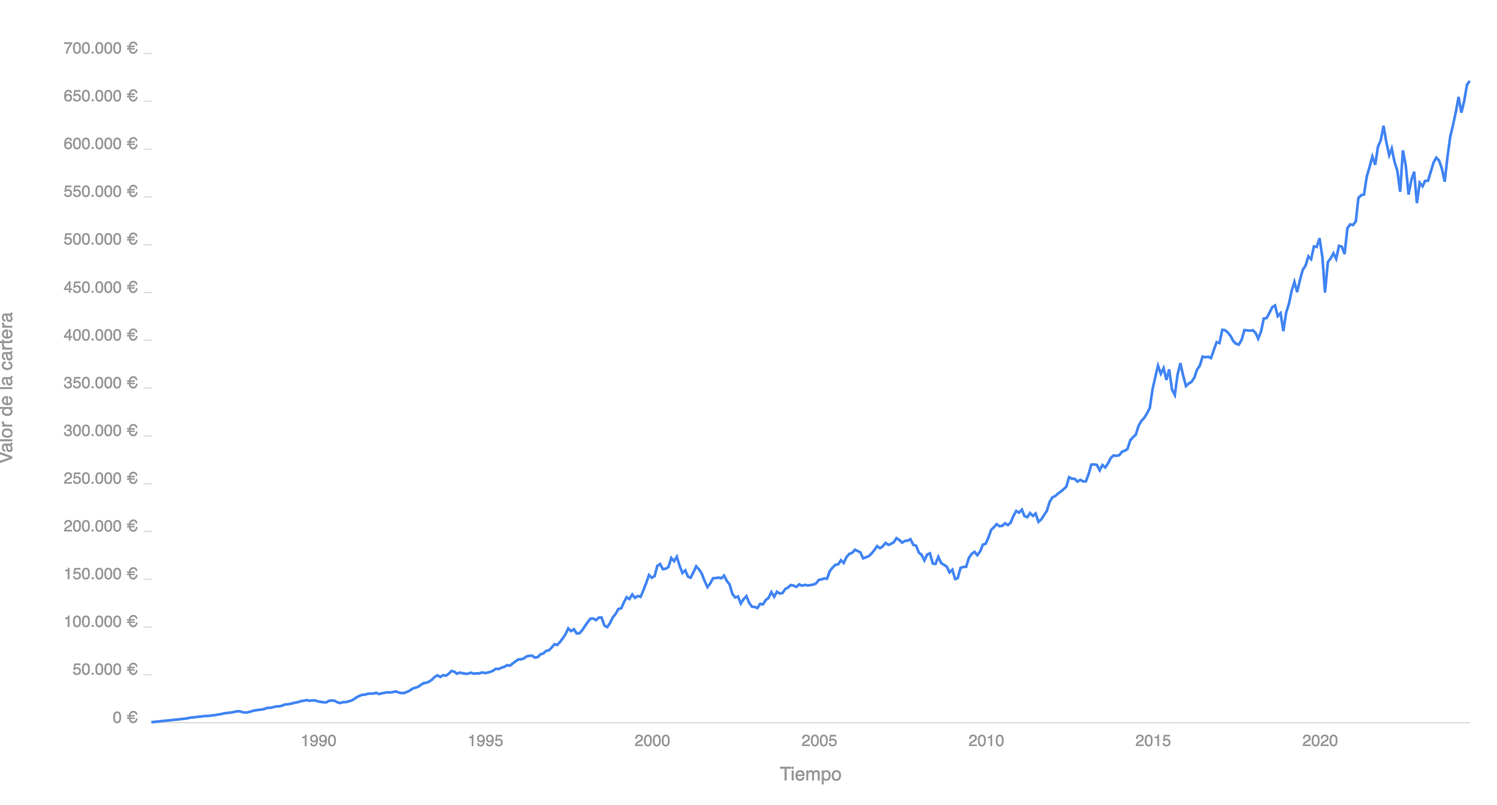
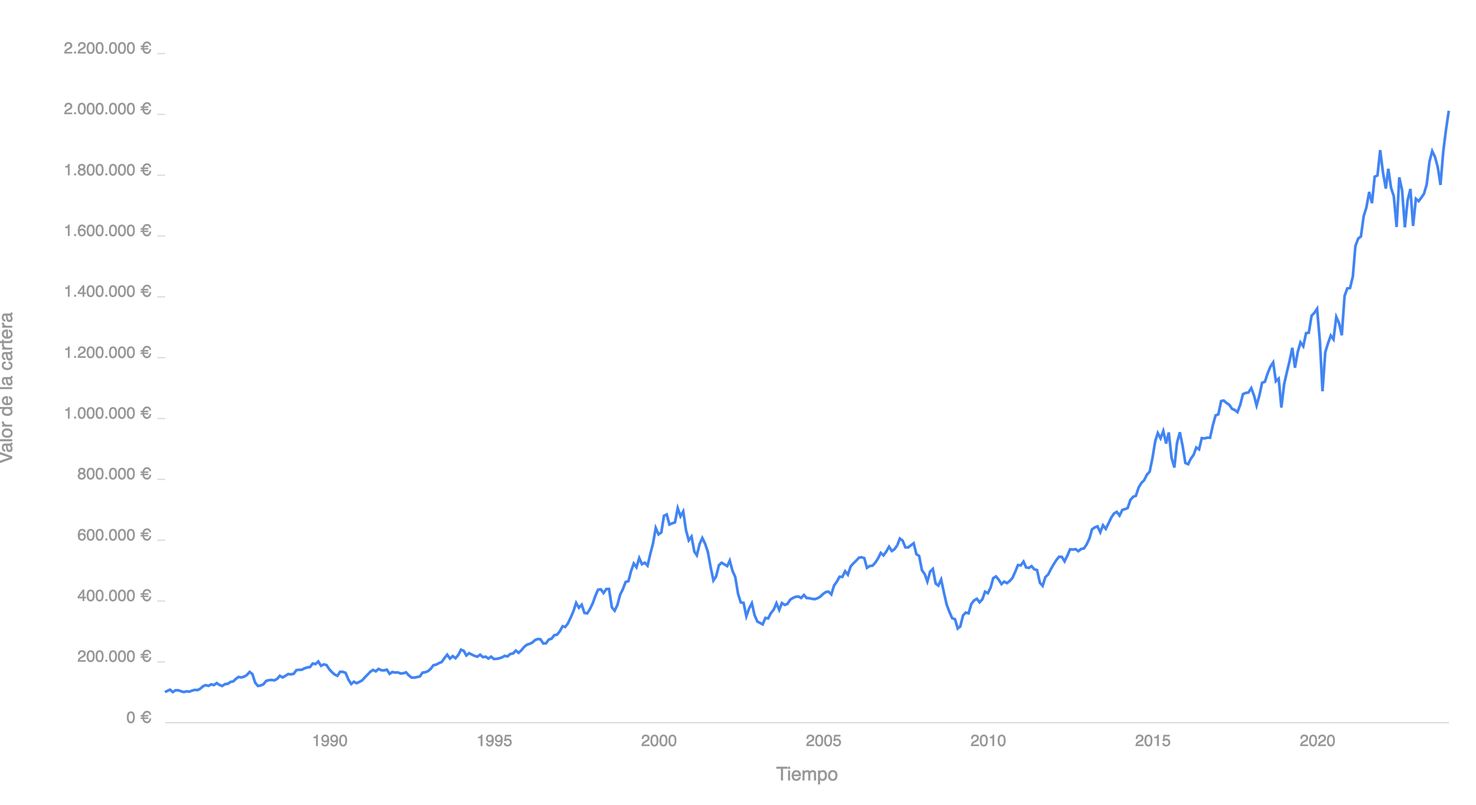
Update blog post

diff --git a/public/pensiones-inversion-espana/index.html b/public/pensiones-inversion-espana/index.html
@@ -284,37 +284,29 @@ Las pensiones y la inversión en España | Víctor Marino
           
           <article class="page-content  p-2">
           <p>Quería estrenar el blog con un tema que, a pesar de tener un impacto enorme sobre la vida de todos nosotros, sigue teniendo un protagonismo relativamente menor, tanto en los medios de comunicación como en el debate público. Sí, de vez en cuando se habla de las pensiones, pero normalmente la conversación es muy superficial y con argumentos muy simples, quedando a menudo simplificado a un enfrentamiento entre ideologías y sin hacer un análisis detallado que ayude a entender los problemas y las posibles soluciones. Con este post voy a tratar de resumir algunos de estos puntos de forma sencilla para facilitar dicho debate.</p>
-<h3 id="origen">Origen</h3>
-<h4 id="retiro-obrero">Retiro Obrero</h4>
+<h2 id="origen">Origen</h2>
+<h3 id="retiro-obrero">Retiro Obrero</h3>
 <p>Curiosamente, el sistema actual de reparto tuvo un predecesor que podríamos llamar de capitalización. Fue el llamado <strong>Retiro Obrero</strong><sup id="fnref:1"><a href="#fn:1" class="footnote-ref" role="doc-noteref">1</a></sup>, aprobado en 1919, por el cual el Estado aportaba una peseta al mes por cada trabajador en activo, mientras que los patronos aportaban tres pesetas al mes. Este dinero era gestionado por los bancos y cajas de ahorro, y daba derecho a los trabajadores con pocos ingresos a una pensión de una peseta al día (365 al año) a partir de los 65 años. Este importe suponía tan solo entre el 10% y el 20% del salario medio de un obrero, y estaba por tanto concebido como una ayuda contra la pobreza, no como nuestras actuales pensiones de jubilación.</p>
 <p>Sin embargo, la llegada de la guerra imposibilitó que los primeros partícipes de este sistema pudieran llegar a beneficiarse de él. Estos ahorros se habían acumulado en forma de <strong>pesetas republicanas</strong>, una moneda que sufrió una enorme devaluación durante la guerra civil<sup id="fnref:2"><a href="#fn:2" class="footnote-ref" role="doc-noteref">2</a></sup> (frente a la estabilidad de la peseta nacional), y que finalmente terminaría desapareciendo. Por tanto, al terminar la guerra, esas pensiones ahorradas en pesetas republicanas no valían nada, y Franco tuvo que buscar una solución para sustentar a esos trabajadores de bajos ingresos que estaban a punto de jubilarse, pero que habían perdido la pensión que habían acumulado. Fueron estos problemas los que motivaron la migración a un sistema de reparto: el <strong>Subsidio de Vejez</strong>.</p>
-<h4 id="subsidio-de-vejez">Subsidio de Vejez</h4>
+<h3 id="subsidio-de-vejez">Subsidio de Vejez</h3>
 <p>Con este sistema, que al igual que su predecesor sólo cubría a los jubilados con bajos ingresos, los trabajadores en activo empezaban a pagar de inmediato las pensiones de los jubilados, que recibían una pensión vitalicia fija y garantizada. Se eliminaba por tanto el componente de ahorro del sistema, sorteando así el principal problema en aquel momento: la <strong>falta de tiempo</strong> para que los trabajadores más mayores volviesen a acumular suficientes ahorros antes de jubilarse. A cambio, los jubilados pasaban a ser completamente dependientes de los trabajadores en activo de ese momento. Era, en esencia, una transferencia de riqueza de los trabajadores a los jubilados.</p>
 <p>Más tarde, este sistema se expandiría para cubrir a todos los jubilados, solidificando aún más esa dependencia intergeneracional de cara al futuro.</p>
-<h3 id="limitaciones-de-los-sistemas-de-reparto">Limitaciones de los sistemas de reparto</h3>
-<h4 id="ausencia-de-rentabilidad">Ausencia de rentabilidad</h4>
+<h2 id="limitaciones-de-los-sistemas-de-reparto">Limitaciones de los sistemas de reparto</h2>
+<h3 id="ausencia-de-rentabilidad">Ausencia de rentabilidad</h3>
 <p>Uno de los principales problemas de las pensiones basadas en el reparto es que se renuncia por completo a la revalorización del capital a lo largo del tiempo. Cada euro aportado por un trabajador en activo se gasta al mes siguiente en pagarle un euro a un pensionista, y por tanto no tiene tiempo de producir rentabilidad alguna en los mercados. Esto constituye un tremendo coste de oportunidad, puesto que el tiempo, recurso tan abundante para una persona que comienza a trabajar, es precisamente el <strong>factor más crítico</strong> para invertir con éxito.</p>
-<p>Por ejemplo, una inversión de 10.000€ realizada en enero de 1985 en un indexado al MSCI World (ignoremos para este ejercicio teórico la disponibilidad de vehículos indexados en aquella época) habría alcanzado en enero de 2024, 39 años después, un valor aproximado de 200.000€:
+<p>Por ejemplo, una inversión de 100.000€ realizada en enero de 1985 en un indexado al MSCI World (ignoremos para este ejercicio teórico la disponibilidad de vehículos indexados en aquella época) habría alcanzado en enero de 2024, 39 años después, un valor aproximado de 2.000.000€:
 <img src="../assets/MSCI_World_1985-2024.png">
-<em>Backtest de una inversión de 10.000€ en el ETF Amundi MSCI World V: 1985-2024 <sup id="fnref:3"><a href="#fn:3" class="footnote-ref" role="doc-noteref">3</a></sup></em></p>
-<p>Esto supone una revalorización de 20 veces el capital invertido, y una rentabilidad anualizada de un 8% aproximadamente. Incluso si tenemos en cuenta el efecto de la inflación en España a lo largo de esos 39 años, los 10.000€ invertidos en 1985 equivaldrían a unos 35.350€ de 2024<sup id="fnref:4"><a href="#fn:4" class="footnote-ref" role="doc-noteref">4</a></sup>, lo cual seguiría suponiendo una revalorización de más de 5 veces el capital invertido en términos reales, y una rentabilidad real anualizada del 4,5%.</p>
-<p>Vaya por delante que esto sólo es un ejercio teórico para ilustrar el coste de oportunidad de <em>no</em> invertir el capital no necesario durante tantos años. Para hacer una comparación más justa, habría que considerar algunas variables más:</p>
+<em>Backtest de una inversión de 100.000€ en el ETF Amundi MSCI World V: 1985-2024 <sup id="fnref:3"><a href="#fn:3" class="footnote-ref" role="doc-noteref">3</a></sup></em></p>
+<p>Esto supone una revalorización de 20 veces el capital invertido, y una rentabilidad anualizada de un 8% aproximadamente. Incluso si tenemos en cuenta el efecto de la inflación en España a lo largo de esos 39 años, esos 2.000.000€ equivaldrían a unos 570.000€ de 1985 <sup id="fnref:4"><a href="#fn:4" class="footnote-ref" role="doc-noteref">4</a></sup>, lo cual seguiría suponiendo una revalorización de más de 5 veces el capital invertido en términos reales, y una rentabilidad real anualizada del 4,5%.</p>
+<p>Hay que remarcar que esto sólo es un ejercio teórico para ilustrar el coste de oportunidad de <em>no</em> invertir a largo plazo. Para hacer una simulación más realista, habría que considerar algunas variables más:</p>
 <ul>
 <li>La inversión no se haría de golpe al inicio, sino poco a poco en aportaciones mensuales.</li>
 <li>Las aportaciones serían más pequeñas al principio y crecerían progresivamente, puesto que habitualmente el salario y la capacidad de ahorro del trabajador aumentan con el tiempo.</li>
-<li>Un inversor prudente no llevaría el 100% de su cartera invertido en renta variable durante toda su vida inversora, sino que iría introduciendo renta fija para protegerse de la volatilidad a medida que se acerca su jubilación.</li>
+<li>Un inversor prudente no llevaría el 100% de su cartera invertida en renta variable durante toda su vida, sino que iría introduciendo renta fija a medida que se acerca su jubilación para protegerse de la volatilidad de los mercados.</li>
 </ul>
-<p>Pero lo importante es entender que el poder de revalorización del capital a lo largo del tiempo es enorme si se invierte, y que eso sólo es posible cuando se tienen suficientes años por delante como para poder asumir el riesgo y la volatilidad que conlleva esa inversión.</p>
-<p>Alguien que ahorra para comprarse un piso dentro de 5 años no puede contar con que los mercados le ayuden demasiado, ya que:</p>
-<ol>
-<li>Con un horizonte temporal tan corto, no podrá asumir mucho riesgo, ya que de lo contrario podría verse obligado a retirar su capital en pérdidas. Tendrá que conformarse con invertir principalmente en productos de renta fija (bonos), que serán mucho menos rentables que la renta variable (acciones).</li>
-<li>Esa inversión sólo va a trabajar para él durante 5 años, por lo que la revalorización del capital será muy limitada.</li>
-</ol>
-<p>Por contra, alguien que tiene varias décadas por delante para</p>
-<ol>
-<li>Podrá asumir mucho más riesgo, ya que permanecerá invertido durante</li>
-</ol>
-<p>Esto último exacerbó aún más la dependencia de los trabajadores en activo por parte de los pensionistas, especialmente cuando el sistema se expandió en los años 60 para cubrir a toda la población. Ante las crecientes demandas del sistema y en ausencia de ninguna rentabilidad, resultaba imprescindible mantener un alto ratio de trabajadores por pensionista para que la cuantía de la prestación fuese lo bastante alta.</p>
+<p>Pero lo importante es entender que, cuando se tienen décadas por delante, el poder de revalorización del capital invertido es enorme. Quien va a necesitar su dinero en 5 años no tiene ese lujo, ya que no podrá asumir el riesgo que implica la renta variable, y además tampoco podrá beneficiarse de la composición de rentabilidades que sólo proporciona el largo plazo. Y esas circunstancias de urgencia fueron las que motivaron la adopción del sistema de reparto tras la guerra. Pero en condiciones normales, un sistema de pensiones trabaja con periodos de más de 40 años, que es la duración de la vida laboral de sus partícipes. Por tanto, no invertir el dinero que entra en ese sistema supone una enorme destrucción de riqueza para el país.</p>
+<h3 id="estructura-piramidal">Estructura piramidal</h3>
+<p>En ausencia de rentabilidad alguna, resultaba imprescindible mantener un alto ratio de trabajadores por pensionista para que la cuantía de la prestación fuese lo bastante alta.</p>
 <div class="footnotes" role="doc-endnotes">
 <hr>
 <ol>
@@ -325,10 +317,10 @@ Las pensiones y la inversión en España | Víctor Marino
 <p><a href="https://www.20minutos.es/lainformacion/economia-y-finanzas/asi-acabo-guerra-civil-con-peseta-republicana-hace-ahora-ochenta-anos-5368503/">20 minutos | Así acabó la Guerra Civil con la peseta republicana hace ahora ochenta años</a>&#160;<a href="#fnref:2" class="footnote-backref" role="doc-backlink">&#x21a9;&#xfe0e;</a></p>
 </li>
 <li id="fn:3">
-<p>Fuente: <a href="https://curvo.eu/backtest/es/cartera/benchmark-global-100-rv--NoIgQgpgdgxgFgWwIYCcDWACA4gGwPYBGSOGAjAAzkCkGASgGogA0woAMgKqkDsAHKQFYALKR4BOZqQC6MoA?config=%7B%22periodStart%22%3A%221985-01%22%2C%22periodEnd%22%3A%222024-01%22%7D">Curvo.eu | Backtest del ETF Amundi MSCI World (ISIN LU1781541179) desde enero de 1985 hasta enero de 2024</a>&#160;<a href="#fnref:3" class="footnote-backref" role="doc-backlink">&#x21a9;&#xfe0e;</a></p>
+<p>Fuente: <a href="https://curvo.eu/backtest/es/cartera/benchmark-global-100-rv--NoIgQgpgdgxgFgWwIYCcDWACA4gGwPYBGSOGAjAAzkCkGASgGogA0woAMgKqkDsAHKQFYALKR4BOZqQC6MoA?config=%7B%22investmentPatterns%22%3A%5B%5B%22one-off%22%2C100000%5D%5D%2C%22periodStart%22%3A%221985-01%22%2C%22periodEnd%22%3A%222024-01%22%7D">Curvo.eu | Backtest del ETF Amundi MSCI World (ISIN LU1781541179) desde enero de 1985 hasta enero de 2024</a>&#160;<a href="#fnref:3" class="footnote-backref" role="doc-backlink">&#x21a9;&#xfe0e;</a></p>
 </li>
 <li id="fn:4">
-<p>Fuente: <a href="https://www.ine.es/calcula/calcula.do">Calculadora de IPC del INE</a>&#160;<a href="#fnref:4" class="footnote-backref" role="doc-backlink">&#x21a9;&#xfe0e;</a></p>
+<p>Dato obtenido de la <a href="https://www.ine.es/calcula/">Calculadora de IPC del INE</a>&#160;<a href="#fnref:4" class="footnote-backref" role="doc-backlink">&#x21a9;&#xfe0e;</a></p>
 </li>
 </ol>
 </div>
@@ -347,10 +339,16 @@ Las pensiones y la inversión en España | Víctor Marino
               <div class="toc-content">
                 <nav id="TableOfContents">
   <ul>
-    <li>
+    <li><a href="#origen">Origen</a>
       <ul>
-        <li><a href="#origen">Origen</a></li>
-        <li><a href="#limitaciones-de-los-sistemas-de-reparto">Limitaciones de los sistemas de reparto</a></li>
+        <li><a href="#retiro-obrero">Retiro Obrero</a></li>
+        <li><a href="#subsidio-de-vejez">Subsidio de Vejez</a></li>
+      </ul>
+    </li>
+    <li><a href="#limitaciones-de-los-sistemas-de-reparto">Limitaciones de los sistemas de reparto</a>
+      <ul>
+        <li><a href="#ausencia-de-rentabilidad">Ausencia de rentabilidad</a></li>
+        <li><a href="#estructura-piramidal">Estructura piramidal</a></li>
       </ul>
     </li>
   </ul>

diff --git a/public/en/pensiones-inversion-espana/index.html b/public/en/pensiones-inversion-espana/index.html
@@ -284,37 +284,29 @@ Las pensiones y la inversión en España | Víctor Marino
           
           <article class="page-content  p-2">
           <p>Quería estrenar el blog con un tema que, a pesar de tener un impacto enorme sobre la vida de todos nosotros, sigue teniendo un protagonismo relativamente menor, tanto en los medios de comunicación como en el debate público. Sí, de vez en cuando se habla de las pensiones, pero normalmente la conversación es muy superficial y con argumentos muy simples, quedando a menudo simplificado a un enfrentamiento entre ideologías y sin hacer un análisis detallado que ayude a entender los problemas y las posibles soluciones. Con este post voy a tratar de resumir algunos de estos puntos de forma sencilla para facilitar dicho debate.</p>
-<h3 id="origen">Origen</h3>
-<h4 id="retiro-obrero">Retiro Obrero</h4>
+<h2 id="origen">Origen</h2>
+<h3 id="retiro-obrero">Retiro Obrero</h3>
 <p>Curiosamente, el sistema actual de reparto tuvo un predecesor que podríamos llamar de capitalización. Fue el llamado <strong>Retiro Obrero</strong><sup id="fnref:1"><a href="#fn:1" class="footnote-ref" role="doc-noteref">1</a></sup>, aprobado en 1919, por el cual el Estado aportaba una peseta al mes por cada trabajador en activo, mientras que los patronos aportaban tres pesetas al mes. Este dinero era gestionado por los bancos y cajas de ahorro, y daba derecho a los trabajadores con pocos ingresos a una pensión de una peseta al día (365 al año) a partir de los 65 años. Este importe suponía tan solo entre el 10% y el 20% del salario medio de un obrero, y estaba por tanto concebido como una ayuda contra la pobreza, no como nuestras actuales pensiones de jubilación.</p>
 <p>Sin embargo, la llegada de la guerra imposibilitó que los primeros partícipes de este sistema pudieran llegar a beneficiarse de él. Estos ahorros se habían acumulado en forma de <strong>pesetas republicanas</strong>, una moneda que sufrió una enorme devaluación durante la guerra civil<sup id="fnref:2"><a href="#fn:2" class="footnote-ref" role="doc-noteref">2</a></sup> (frente a la estabilidad de la peseta nacional), y que finalmente terminaría desapareciendo. Por tanto, al terminar la guerra, esas pensiones ahorradas en pesetas republicanas no valían nada, y Franco tuvo que buscar una solución para sustentar a esos trabajadores de bajos ingresos que estaban a punto de jubilarse, pero que habían perdido la pensión que habían acumulado. Fueron estos problemas los que motivaron la migración a un sistema de reparto: el <strong>Subsidio de Vejez</strong>.</p>
-<h4 id="subsidio-de-vejez">Subsidio de Vejez</h4>
+<h3 id="subsidio-de-vejez">Subsidio de Vejez</h3>
 <p>Con este sistema, que al igual que su predecesor sólo cubría a los jubilados con bajos ingresos, los trabajadores en activo empezaban a pagar de inmediato las pensiones de los jubilados, que recibían una pensión vitalicia fija y garantizada. Se eliminaba por tanto el componente de ahorro del sistema, sorteando así el principal problema en aquel momento: la <strong>falta de tiempo</strong> para que los trabajadores más mayores volviesen a acumular suficientes ahorros antes de jubilarse. A cambio, los jubilados pasaban a ser completamente dependientes de los trabajadores en activo de ese momento. Era, en esencia, una transferencia de riqueza de los trabajadores a los jubilados.</p>
 <p>Más tarde, este sistema se expandiría para cubrir a todos los jubilados, solidificando aún más esa dependencia intergeneracional de cara al futuro.</p>
-<h3 id="limitaciones-de-los-sistemas-de-reparto">Limitaciones de los sistemas de reparto</h3>
-<h4 id="ausencia-de-rentabilidad">Ausencia de rentabilidad</h4>
+<h2 id="limitaciones-de-los-sistemas-de-reparto">Limitaciones de los sistemas de reparto</h2>
+<h3 id="ausencia-de-rentabilidad">Ausencia de rentabilidad</h3>
 <p>Uno de los principales problemas de las pensiones basadas en el reparto es que se renuncia por completo a la revalorización del capital a lo largo del tiempo. Cada euro aportado por un trabajador en activo se gasta al mes siguiente en pagarle un euro a un pensionista, y por tanto no tiene tiempo de producir rentabilidad alguna en los mercados. Esto constituye un tremendo coste de oportunidad, puesto que el tiempo, recurso tan abundante para una persona que comienza a trabajar, es precisamente el <strong>factor más crítico</strong> para invertir con éxito.</p>
-<p>Por ejemplo, una inversión de 10.000€ realizada en enero de 1985 en un indexado al MSCI World (ignoremos para este ejercicio teórico la disponibilidad de vehículos indexados en aquella época) habría alcanzado en enero de 2024, 39 años después, un valor aproximado de 200.000€:
+<p>Por ejemplo, una inversión de 100.000€ realizada en enero de 1985 en un indexado al MSCI World (ignoremos para este ejercicio teórico la disponibilidad de vehículos indexados en aquella época) habría alcanzado en enero de 2024, 39 años después, un valor aproximado de 2.000.000€:
 <img src="../assets/MSCI_World_1985-2024.png">
-<em>Backtest de una inversión de 10.000€ en el ETF Amundi MSCI World V: 1985-2024 <sup id="fnref:3"><a href="#fn:3" class="footnote-ref" role="doc-noteref">3</a></sup></em></p>
-<p>Esto supone una revalorización de 20 veces el capital invertido, y una rentabilidad anualizada de un 8% aproximadamente. Incluso si tenemos en cuenta el efecto de la inflación en España a lo largo de esos 39 años, los 10.000€ invertidos en 1985 equivaldrían a unos 35.350€ de 2024<sup id="fnref:4"><a href="#fn:4" class="footnote-ref" role="doc-noteref">4</a></sup>, lo cual seguiría suponiendo una revalorización de más de 5 veces el capital invertido en términos reales, y una rentabilidad real anualizada del 4,5%.</p>
-<p>Vaya por delante que esto sólo es un ejercio teórico para ilustrar el coste de oportunidad de <em>no</em> invertir el capital no necesario durante tantos años. Para hacer una comparación más justa, habría que considerar algunas variables más:</p>
+<em>Backtest de una inversión de 100.000€ en el ETF Amundi MSCI World V: 1985-2024 <sup id="fnref:3"><a href="#fn:3" class="footnote-ref" role="doc-noteref">3</a></sup></em></p>
+<p>Esto supone una revalorización de 20 veces el capital invertido, y una rentabilidad anualizada de un 8% aproximadamente. Incluso si tenemos en cuenta el efecto de la inflación en España a lo largo de esos 39 años, esos 2.000.000€ equivaldrían a unos 570.000€ de 1985 <sup id="fnref:4"><a href="#fn:4" class="footnote-ref" role="doc-noteref">4</a></sup>, lo cual seguiría suponiendo una revalorización de más de 5 veces el capital invertido en términos reales, y una rentabilidad real anualizada del 4,5%.</p>
+<p>Hay que remarcar que esto sólo es un ejercio teórico para ilustrar el coste de oportunidad de <em>no</em> invertir a largo plazo. Para hacer una simulación más realista, habría que considerar algunas variables más:</p>
 <ul>
 <li>La inversión no se haría de golpe al inicio, sino poco a poco en aportaciones mensuales.</li>
 <li>Las aportaciones serían más pequeñas al principio y crecerían progresivamente, puesto que habitualmente el salario y la capacidad de ahorro del trabajador aumentan con el tiempo.</li>
-<li>Un inversor prudente no llevaría el 100% de su cartera invertido en renta variable durante toda su vida inversora, sino que iría introduciendo renta fija para protegerse de la volatilidad a medida que se acerca su jubilación.</li>
+<li>Un inversor prudente no llevaría el 100% de su cartera invertida en renta variable durante toda su vida, sino que iría introduciendo renta fija a medida que se acerca su jubilación para protegerse de la volatilidad de los mercados.</li>
 </ul>
-<p>Pero lo importante es entender que el poder de revalorización del capital a lo largo del tiempo es enorme si se invierte, y que eso sólo es posible cuando se tienen suficientes años por delante como para poder asumir el riesgo y la volatilidad que conlleva esa inversión.</p>
-<p>Alguien que ahorra para comprarse un piso dentro de 5 años no puede contar con que los mercados le ayuden demasiado, ya que:</p>
-<ol>
-<li>Con un horizonte temporal tan corto, no podrá asumir mucho riesgo, ya que de lo contrario podría verse obligado a retirar su capital en pérdidas. Tendrá que conformarse con invertir principalmente en productos de renta fija (bonos), que serán mucho menos rentables que la renta variable (acciones).</li>
-<li>Esa inversión sólo va a trabajar para él durante 5 años, por lo que la revalorización del capital será muy limitada.</li>
-</ol>
-<p>Por contra, alguien que tiene varias décadas por delante para</p>
-<ol>
-<li>Podrá asumir mucho más riesgo, ya que permanecerá invertido durante</li>
-</ol>
-<p>Esto último exacerbó aún más la dependencia de los trabajadores en activo por parte de los pensionistas, especialmente cuando el sistema se expandió en los años 60 para cubrir a toda la población. Ante las crecientes demandas del sistema y en ausencia de ninguna rentabilidad, resultaba imprescindible mantener un alto ratio de trabajadores por pensionista para que la cuantía de la prestación fuese lo bastante alta.</p>
+<p>Pero lo importante es entender que, cuando se tienen décadas por delante, el poder de revalorización del capital invertido es enorme. Quien va a necesitar su dinero en 5 años no tiene ese lujo, ya que no podrá asumir el riesgo que implica la renta variable, y además tampoco podrá beneficiarse de la composición de rentabilidades que sólo proporciona el largo plazo. Y esas circunstancias de urgencia fueron las que motivaron la adopción del sistema de reparto tras la guerra. Pero en condiciones normales, un sistema de pensiones trabaja con periodos de más de 40 años, que es la duración de la vida laboral de sus partícipes. Por tanto, no invertir el dinero que entra en ese sistema supone una enorme destrucción de riqueza para el país.</p>
+<h3 id="estructura-piramidal">Estructura piramidal</h3>
+<p>En ausencia de rentabilidad alguna, resultaba imprescindible mantener un alto ratio de trabajadores por pensionista para que la cuantía de la prestación fuese lo bastante alta.</p>
 <div class="footnotes" role="doc-endnotes">
 <hr>
 <ol>
@@ -325,10 +317,10 @@ Las pensiones y la inversión en España | Víctor Marino
 <p><a href="https://www.20minutos.es/lainformacion/economia-y-finanzas/asi-acabo-guerra-civil-con-peseta-republicana-hace-ahora-ochenta-anos-5368503/">20 minutos | Así acabó la Guerra Civil con la peseta republicana hace ahora ochenta años</a>&#160;<a href="#fnref:2" class="footnote-backref" role="doc-backlink">&#x21a9;&#xfe0e;</a></p>
 </li>
 <li id="fn:3">
-<p>Fuente: <a href="https://curvo.eu/backtest/es/cartera/benchmark-global-100-rv--NoIgQgpgdgxgFgWwIYCcDWACA4gGwPYBGSOGAjAAzkCkGASgGogA0woAMgKqkDsAHKQFYALKR4BOZqQC6MoA?config=%7B%22periodStart%22%3A%221985-01%22%2C%22periodEnd%22%3A%222024-01%22%7D">Curvo.eu | Backtest del ETF Amundi MSCI World (ISIN LU1781541179) desde enero de 1985 hasta enero de 2024</a>&#160;<a href="#fnref:3" class="footnote-backref" role="doc-backlink">&#x21a9;&#xfe0e;</a></p>
+<p>Fuente: <a href="https://curvo.eu/backtest/es/cartera/benchmark-global-100-rv--NoIgQgpgdgxgFgWwIYCcDWACA4gGwPYBGSOGAjAAzkCkGASgGogA0woAMgKqkDsAHKQFYALKR4BOZqQC6MoA?config=%7B%22investmentPatterns%22%3A%5B%5B%22one-off%22%2C100000%5D%5D%2C%22periodStart%22%3A%221985-01%22%2C%22periodEnd%22%3A%222024-01%22%7D">Curvo.eu | Backtest del ETF Amundi MSCI World (ISIN LU1781541179) desde enero de 1985 hasta enero de 2024</a>&#160;<a href="#fnref:3" class="footnote-backref" role="doc-backlink">&#x21a9;&#xfe0e;</a></p>
 </li>
 <li id="fn:4">
-<p>Fuente: <a href="https://www.ine.es/calcula/calcula.do">Calculadora de IPC del INE</a>&#160;<a href="#fnref:4" class="footnote-backref" role="doc-backlink">&#x21a9;&#xfe0e;</a></p>
+<p>Dato obtenido de la <a href="https://www.ine.es/calcula/">Calculadora de IPC del INE</a>&#160;<a href="#fnref:4" class="footnote-backref" role="doc-backlink">&#x21a9;&#xfe0e;</a></p>
 </li>
 </ol>
 </div>

diff --git a/public/en/blog/index.html b/public/en/blog/index.html
@@ -112,7 +112,7 @@
 <meta name="description" content=My&#32;personal&#32;website>
 
   <title>
-Víctor Marino | Page not found
+Víctor Marino | Página no encontrada
 
   </title>
 </head>
@@ -184,7 +184,7 @@ Víctor Marino | Page not found
                     
                     
                     <li class="nav-item navbar-text">
-                        <a class="nav-link" href="/en/" title="">
+                        <a class="nav-link" href="/" title="">
                             
                             Blog
                         </a>
@@ -197,7 +197,7 @@ Víctor Marino | Page not found
                     
                     
                     <li class="nav-item navbar-text">
-                        <a class="nav-link" href="/en/xinsight" title="">
+                        <a class="nav-link" href="/xinsight" title="">
                             
                             X Insight
                         </a>
@@ -210,9 +210,9 @@ Víctor Marino | Page not found
                     
                     
                     <li class="nav-item navbar-text">
-                        <a class="nav-link" href="/en/about/" title="">
+                        <a class="nav-link" href="/about/" title="">
                             
-                            About me
+                            Sobre mí
                         </a>
                     </li>
                     
@@ -235,13 +235,9 @@ Víctor Marino | Page not found
                     <li class="nav-item navbar-text dropdown">
                         <a class="nav-link dropdown-toggle" href="" id="navbarDropdown" role="button" data-bs-toggle="dropdown"
                             aria-haspopup="true" aria-expanded="false">
-                            English
+                            Español
                         </a>
                         <div class="dropdown-menu shadow-lg rounded" aria-labelledby="navbarDropdown">
-                            
-                            <a class="dropdown-item text-center nav-link" href="/blog/">
-                                Español
-                            </a>
                             
                         </div>
                     </li>
@@ -255,8 +251,8 @@ Víctor Marino | Page not found
 </header>
 <div id="content">
 <div class="container py-5 text-center">
-    <img src="/404.png" alt='Page not found' class="img-fluid" width="40%">
-    <h1>Page not found</h1>
+    <img src="/404.png" alt='Página no encontrada' class="img-fluid" width="40%">
+    <h1>Página no encontrada</h1>
 </div>
 
   </div><footer>
@@ -279,7 +275,7 @@ Víctor Marino | Page not found
             <div class="pb-2">
                 
             </div>
-            &copy; 2024  All rights reserved
+            &copy; 2024  Todos los derechos
             <div class="text-secondary">
                 Made with <a href="https://github.com/gurusabarish/hugo-profile" target="_blank">Hugo Profile</a>, by <a href="https://github.com/gurusabarish">Guru Sabarish</a>.
                 <br>Customized by Víctor Marino.

diff --git a/content/blog/2024-07-14-pensiones-inversion-espana.md b/content/blog/2024-07-14-pensiones-inversion-espana.md
@@ -12,51 +12,44 @@ toc: true
 
 Quería estrenar el blog con un tema que, a pesar de tener un impacto enorme sobre la vida de todos nosotros, sigue teniendo un protagonismo relativamente menor, tanto en los medios de comunicación como en el debate público. Sí, de vez en cuando se habla de las pensiones, pero normalmente la conversación es muy superficial y con argumentos muy simples, quedando a menudo simplificado a un enfrentamiento entre ideologías y sin hacer un análisis detallado que ayude a entender los problemas y las posibles soluciones. Con este post voy a tratar de resumir algunos de estos puntos de forma sencilla para facilitar dicho debate.
 
-### Origen
+## Origen
 
-#### Retiro Obrero
+### Retiro Obrero
 
 Curiosamente, el sistema actual de reparto tuvo un predecesor que podríamos llamar de capitalización. Fue el llamado **Retiro Obrero**[^1], aprobado en 1919, por el cual el Estado aportaba una peseta al mes por cada trabajador en activo, mientras que los patronos aportaban tres pesetas al mes. Este dinero era gestionado por los bancos y cajas de ahorro, y daba derecho a los trabajadores con pocos ingresos a una pensión de una peseta al día (365 al año) a partir de los 65 años. Este importe suponía tan solo entre el 10% y el 20% del salario medio de un obrero, y estaba por tanto concebido como una ayuda contra la pobreza, no como nuestras actuales pensiones de jubilación.
 
 Sin embargo, la llegada de la guerra imposibilitó que los primeros partícipes de este sistema pudieran llegar a beneficiarse de él. Estos ahorros se habían acumulado en forma de **pesetas republicanas**, una moneda que sufrió una enorme devaluación durante la guerra civil[^2] (frente a la estabilidad de la peseta nacional), y que finalmente terminaría desapareciendo. Por tanto, al terminar la guerra, esas pensiones ahorradas en pesetas republicanas no valían nada, y Franco tuvo que buscar una solución para sustentar a esos trabajadores de bajos ingresos que estaban a punto de jubilarse, pero que habían perdido la pensión que habían acumulado. Fueron estos problemas los que motivaron la migración a un sistema de reparto: el **Subsidio de Vejez**.
 
-#### Subsidio de Vejez
+### Subsidio de Vejez
 
 Con este sistema, que al igual que su predecesor sólo cubría a los jubilados con bajos ingresos, los trabajadores en activo empezaban a pagar de inmediato las pensiones de los jubilados, que recibían una pensión vitalicia fija y garantizada. Se eliminaba por tanto el componente de ahorro del sistema, sorteando así el principal problema en aquel momento: la **falta de tiempo** para que los trabajadores más mayores volviesen a acumular suficientes ahorros antes de jubilarse. A cambio, los jubilados pasaban a ser completamente dependientes de los trabajadores en activo de ese momento. Era, en esencia, una transferencia de riqueza de los trabajadores a los jubilados.
 
 Más tarde, este sistema se expandiría para cubrir a todos los jubilados, solidificando aún más esa dependencia intergeneracional de cara al futuro.
 
-### Limitaciones de los sistemas de reparto
+## Limitaciones de los sistemas de reparto
 
-#### Ausencia de rentabilidad
+### Ausencia de rentabilidad
 
 Uno de los principales problemas de las pensiones basadas en el reparto es que se renuncia por completo a la revalorización del capital a lo largo del tiempo. Cada euro aportado por un trabajador en activo se gasta al mes siguiente en pagarle un euro a un pensionista, y por tanto no tiene tiempo de producir rentabilidad alguna en los mercados. Esto constituye un tremendo coste de oportunidad, puesto que el tiempo, recurso tan abundante para una persona que comienza a trabajar, es precisamente el **factor más crítico** para invertir con éxito.
 
-Por ejemplo, una inversión de 10.000€ realizada en enero de 1985 en un indexado al MSCI World (ignoremos para este ejercicio teórico la disponibilidad de vehículos indexados en aquella época) habría alcanzado en enero de 2024, 39 años después, un valor aproximado de 200.000€:
+Por ejemplo, una inversión de 100.000€ realizada en enero de 1985 en un indexado al MSCI World (ignoremos para este ejercicio teórico la disponibilidad de vehículos indexados en aquella época) habría alcanzado en enero de 2024, 39 años después, un valor aproximado de 2.000.000€:
 ![](../assets/MSCI_World_1985-2024.png)
-*Backtest de una inversión de 10.000€ en el ETF Amundi MSCI World V: 1985-2024 [^3]*
+*Backtest de una inversión de 100.000€ en el ETF Amundi MSCI World V: 1985-2024 [^3]*
 
-Esto supone una revalorización de 20 veces el capital invertido, y una rentabilidad anualizada de un 8% aproximadamente. Incluso si tenemos en cuenta el efecto de la inflación en España a lo largo de esos 39 años, los 10.000€ invertidos en 1985 equivaldrían a unos 35.350€ de 2024[^4], lo cual seguiría suponiendo una revalorización de más de 5 veces el capital invertido en términos reales, y una rentabilidad real anualizada del 4,5%.
+Esto supone una revalorización de 20 veces el capital invertido, y una rentabilidad anualizada de un 8% aproximadamente. Incluso si tenemos en cuenta el efecto de la inflación en España a lo largo de esos 39 años, esos 2.000.000€ equivaldrían a unos 570.000€ de 1985 [^4], lo cual seguiría suponiendo una revalorización de más de 5 veces el capital invertido en términos reales, y una rentabilidad real anualizada del 4,5%.
 
-Vaya por delante que esto sólo es un ejercio teórico para ilustrar el coste de oportunidad de *no* invertir el capital no necesario durante tantos años. Para hacer una comparación más justa, habría que considerar algunas variables más:
+Hay que remarcar que esto sólo es un ejercio teórico para ilustrar el coste de oportunidad de *no* invertir a largo plazo. Para hacer una simulación más realista, habría que considerar algunas variables más:
 * La inversión no se haría de golpe al inicio, sino poco a poco en aportaciones mensuales.
 * Las aportaciones serían más pequeñas al principio y crecerían progresivamente, puesto que habitualmente el salario y la capacidad de ahorro del trabajador aumentan con el tiempo.
-* Un inversor prudente no llevaría el 100% de su cartera invertido en renta variable durante toda su vida inversora, sino que iría introduciendo renta fija para protegerse de la volatilidad a medida que se acerca su jubilación.
+* Un inversor prudente no llevaría el 100% de su cartera invertida en renta variable durante toda su vida, sino que iría introduciendo renta fija a medida que se acerca su jubilación para protegerse de la volatilidad de los mercados.
 
-Pero lo importante es entender que el poder de revalorización del capital a lo largo del tiempo es enorme si se invierte, y que eso sólo es posible cuando se tienen suficientes años por delante como para poder asumir el riesgo y la volatilidad que conlleva esa inversión.
+Pero lo importante es entender que, cuando se tienen décadas por delante, el poder de revalorización del capital invertido es enorme. Quien va a necesitar su dinero en 5 años no tiene ese lujo, ya que no podrá asumir el riesgo que implica la renta variable, y además tampoco podrá beneficiarse de la composición de rentabilidades que sólo proporciona el largo plazo. Y esas circunstancias de urgencia fueron las que motivaron la adopción del sistema de reparto tras la guerra. Pero en condiciones normales, un sistema de pensiones trabaja con periodos de más de 40 años, que es la duración de la vida laboral de sus partícipes. Por tanto, no invertir el dinero que entra en ese sistema supone una enorme destrucción de riqueza para el país.
 
-Alguien que ahorra para comprarse un piso dentro de 5 años no puede contar con que los mercados le ayuden demasiado, ya que:
-1. Con un horizonte temporal tan corto, no podrá asumir mucho riesgo, ya que de lo contrario podría verse obligado a retirar su capital en pérdidas. Tendrá que conformarse con invertir principalmente en productos de renta fija (bonos), que serán mucho menos rentables que la renta variable (acciones).
-2. Esa inversión sólo va a trabajar para él durante 5 años, por lo que la revalorización del capital será muy limitada.
+### Estructura piramidal
 
-Por contra, alguien que tiene varias décadas por delante para 
-1. Podrá asumir mucho más riesgo, ya que permanecerá invertido durante 
-
-
-
-Esto último exacerbó aún más la dependencia de los trabajadores en activo por parte de los pensionistas, especialmente cuando el sistema se expandió en los años 60 para cubrir a toda la población. Ante las crecientes demandas del sistema y en ausencia de ninguna rentabilidad, resultaba imprescindible mantener un alto ratio de trabajadores por pensionista para que la cuantía de la prestación fuese lo bastante alta.
+En ausencia de rentabilidad alguna, resultaba imprescindible mantener un alto ratio de trabajadores por pensionista para que la cuantía de la prestación fuese lo bastante alta.
 
 [^1]: [Wikipedia | Retiro Obrero](https://es.wikipedia.org/wiki/Retiro_Obrero)
 [^2]: [20 minutos | Así acabó la Guerra Civil con la peseta republicana hace ahora ochenta años](https://www.20minutos.es/lainformacion/economia-y-finanzas/asi-acabo-guerra-civil-con-peseta-republicana-hace-ahora-ochenta-anos-5368503/)
-[^3]: Fuente: [Curvo.eu | Backtest del ETF Amundi MSCI World (ISIN LU1781541179) desde enero de 1985 hasta enero de 2024](https://curvo.eu/backtest/es/cartera/benchmark-global-100-rv--NoIgQgpgdgxgFgWwIYCcDWACA4gGwPYBGSOGAjAAzkCkGASgGogA0woAMgKqkDsAHKQFYALKR4BOZqQC6MoA?config=%7B%22periodStart%22%3A%221985-01%22%2C%22periodEnd%22%3A%222024-01%22%7D)
-[^4]: Fuente: [Calculadora de IPC del INE](https://www.ine.es/calcula/calcula.do)
+[^3]: Fuente: [Curvo.eu | Backtest del ETF Amundi MSCI World (ISIN LU1781541179) desde enero de 1985 hasta enero de 2024](https://curvo.eu/backtest/es/cartera/benchmark-global-100-rv--NoIgQgpgdgxgFgWwIYCcDWACA4gGwPYBGSOGAjAAzkCkGASgGogA0woAMgKqkDsAHKQFYALKR4BOZqQC6MoA?config=%7B%22investmentPatterns%22%3A%5B%5B%22one-off%22%2C100000%5D%5D%2C%22periodStart%22%3A%221985-01%22%2C%22periodEnd%22%3A%222024-01%22%7D)
+[^4]: Dato obtenido de la [Calculadora de IPC del INE](https://www.ine.es/calcula/)
